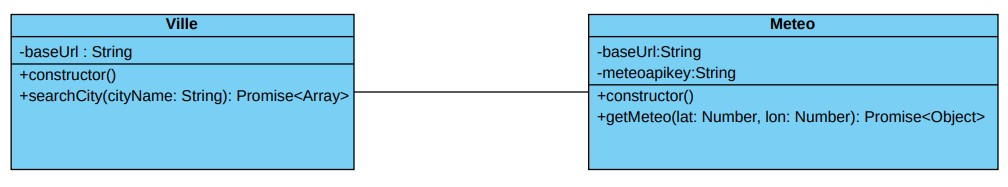
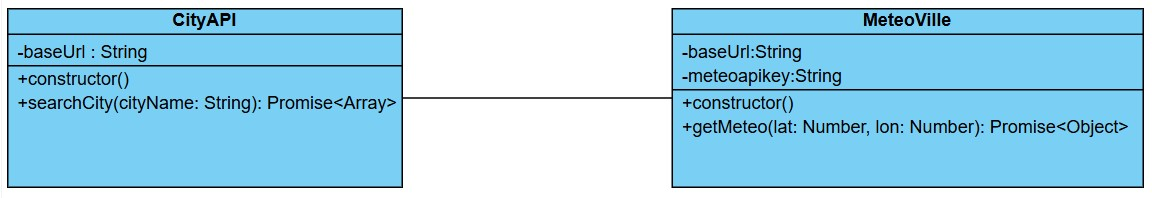
mise a jour du fichier Readme

Changed region(s): [[0.0, 0.0267, 0.7073, 0.9626], [0.5843, 0.0267, 1.0, 0.9626], [0.5843, 0.3476, 0.7381, 0.4278]]

diff --git a/README.md b/README.md
@@ -21,6 +21,17 @@ L’utilisateur saisit le nom d’une ville, l’application récupère son nom 
 - Webpack (gestion des modules, CSS, images)
 - APIs : **api-adresse.data.gouv.fr**, **OpenWeatherMap**
 
+## Fonctionnement de l’application
+L’utilisateur saisit une ville dans le champ de recherche.
+
+L’application appelle la méthode searchCity() de la classe CityAPI, qui interroge l’API d’adresses pour récupérer les informations de la ville.
+
+Une fois les coordonnées (latitude, longitude) obtenues, elles sont transmises à la méthode getMeteo() de la classe MeteoVille.
+
+Les données météorologiques renvoyées sont ensuite affichées dynamiquement dans l’interface (température, description, humidité, vent etc).
+
+L’interface est simple, responsive et compatible avec les navigateurs récents.
+
 ## Arborescence des fichiers
 cliquer ici [arborescence](./src/assets/arborescence.jpg) 
 pour voir l'aborescence des fichiers.
@@ -43,9 +54,9 @@ http://localhost:8080
   les fichier serons generés dans le dossier dist/.
 
 ## Diagramme de classe
-Le diagramme ci-dessous illustre la structure orientée objet de l’application **maVille**, incluant les relations entre les classes principales (Ville, Meteo).
+Le diagramme ci-dessous illustre la structure orientée objet de l’application **maVille**, incluant les relations entre les classes principales (CityAPI, meteoville).
 
-Ville : recherche les coordonnées d’une ville
-Meteo : récupère et affiche les informations météo correspondantes
+CityAPI : recherche les coordonnées d’une ville
+meteoville : récupère et affiche les informations météo correspondantes
 
 [Diagramme de classes](./src/assets/diag_classe.jpg)
